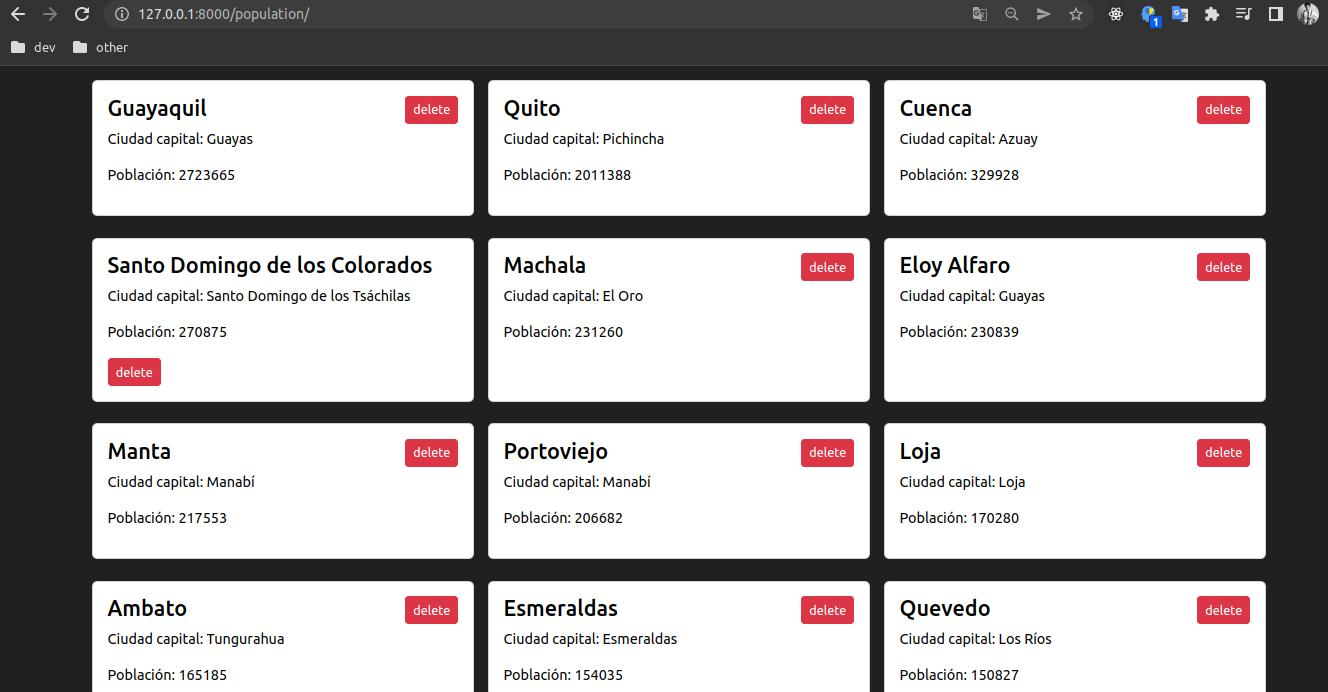
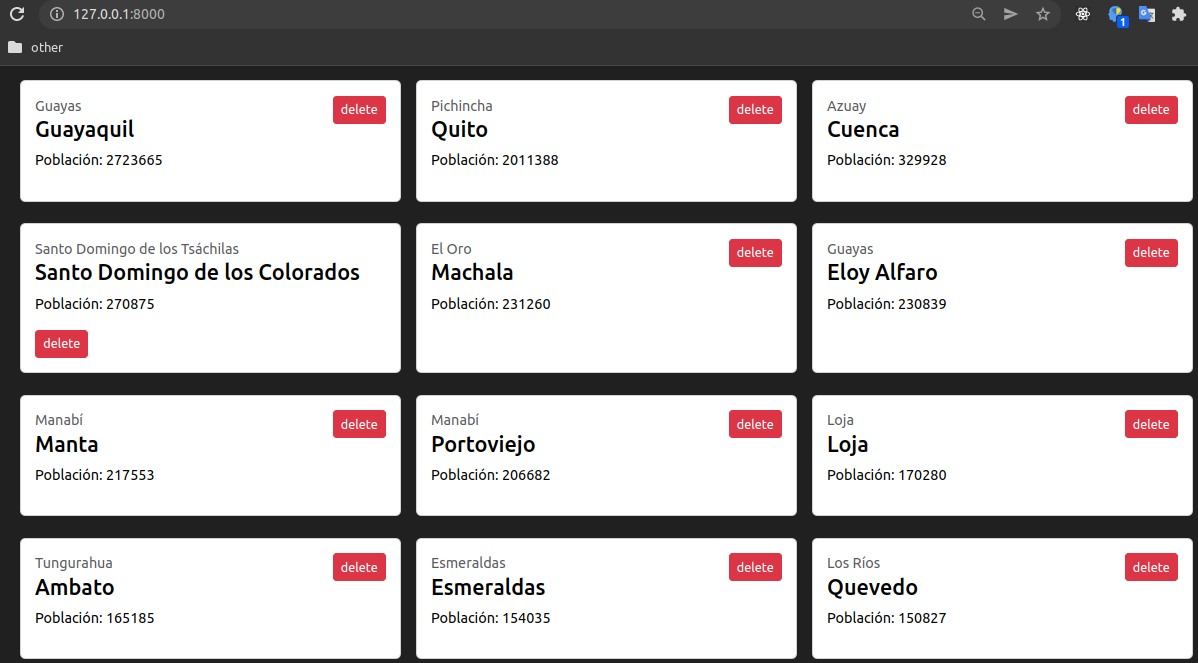
Fixed url and designed

diff --git a/population/templates/landing.html b/population/templates/landing.html
@@ -25,11 +25,18 @@
                   class="card card-body text-black m-2 mt-3 d-flex flex-row justify-content-between col-3 flex-wrap text-wrap"
                 >
                   <div>
-                    <h4>{{data.city}}</h4>
+                    <footer class="text-muted">
+                     {{data.admin_name}}
+                   </footer>
+                    <h4 class="h4">
+                      {{data.city}}
+                    </h4>
                     {% if data.admin_name %}
-                    <p>Ciudad capital: {{data.admin_name}}</p>
+                    {% comment %} <p>{{data.admin_name}}</p> {% endcomment %}
                     {% endif %}
-                    <p>Población: {{data.population | floatformat}}</p>
+                    <p>
+                      Población: {{data.population | floatformat}}
+                    </p>
                   </div>
                    <form action="{% url 'delete_province' data.id %}" method="POST">
                     {% csrf_token %}

diff --git a/population/views.py b/population/views.py
@@ -5,17 +5,6 @@ import datetime
 # Create your views here.
 def cities(request):
     cities = Population.objects.all()
-    print("''''''''''''''''''''''''''''''''''''''")
-    print(type(cities))
-    print("*************************************")
-    data = []
-    for city in cities:
-        data += [city.city, city.admin_name, int(city.population)]
-    print("''''''''''''''''''''''''''''''''''''''")
-    print(type(data))
-    now = datetime.datetime.now() 
-
-    msg = f'Today is {now}'
     return render(request, 'landing.html', {"cities": cities})
     # return HttpResponse(msg, content_type='text/plain')
 
@@ -23,4 +12,4 @@ def delete_province(request, data_id):
     province = Population.objects.get(id=data_id)
     province.delete()
     print(data_id)
-    return redirect('/population/')
+    return redirect('/')

diff --git a/app_population/urls.py b/app_population/urls.py
@@ -18,5 +18,5 @@ from django.urls import path, include
 
 urlpatterns = [
     path('admin/', admin.site.urls),
-    path('population/', include('population.urls'))
+    path('', include('population.urls'))
 ]
